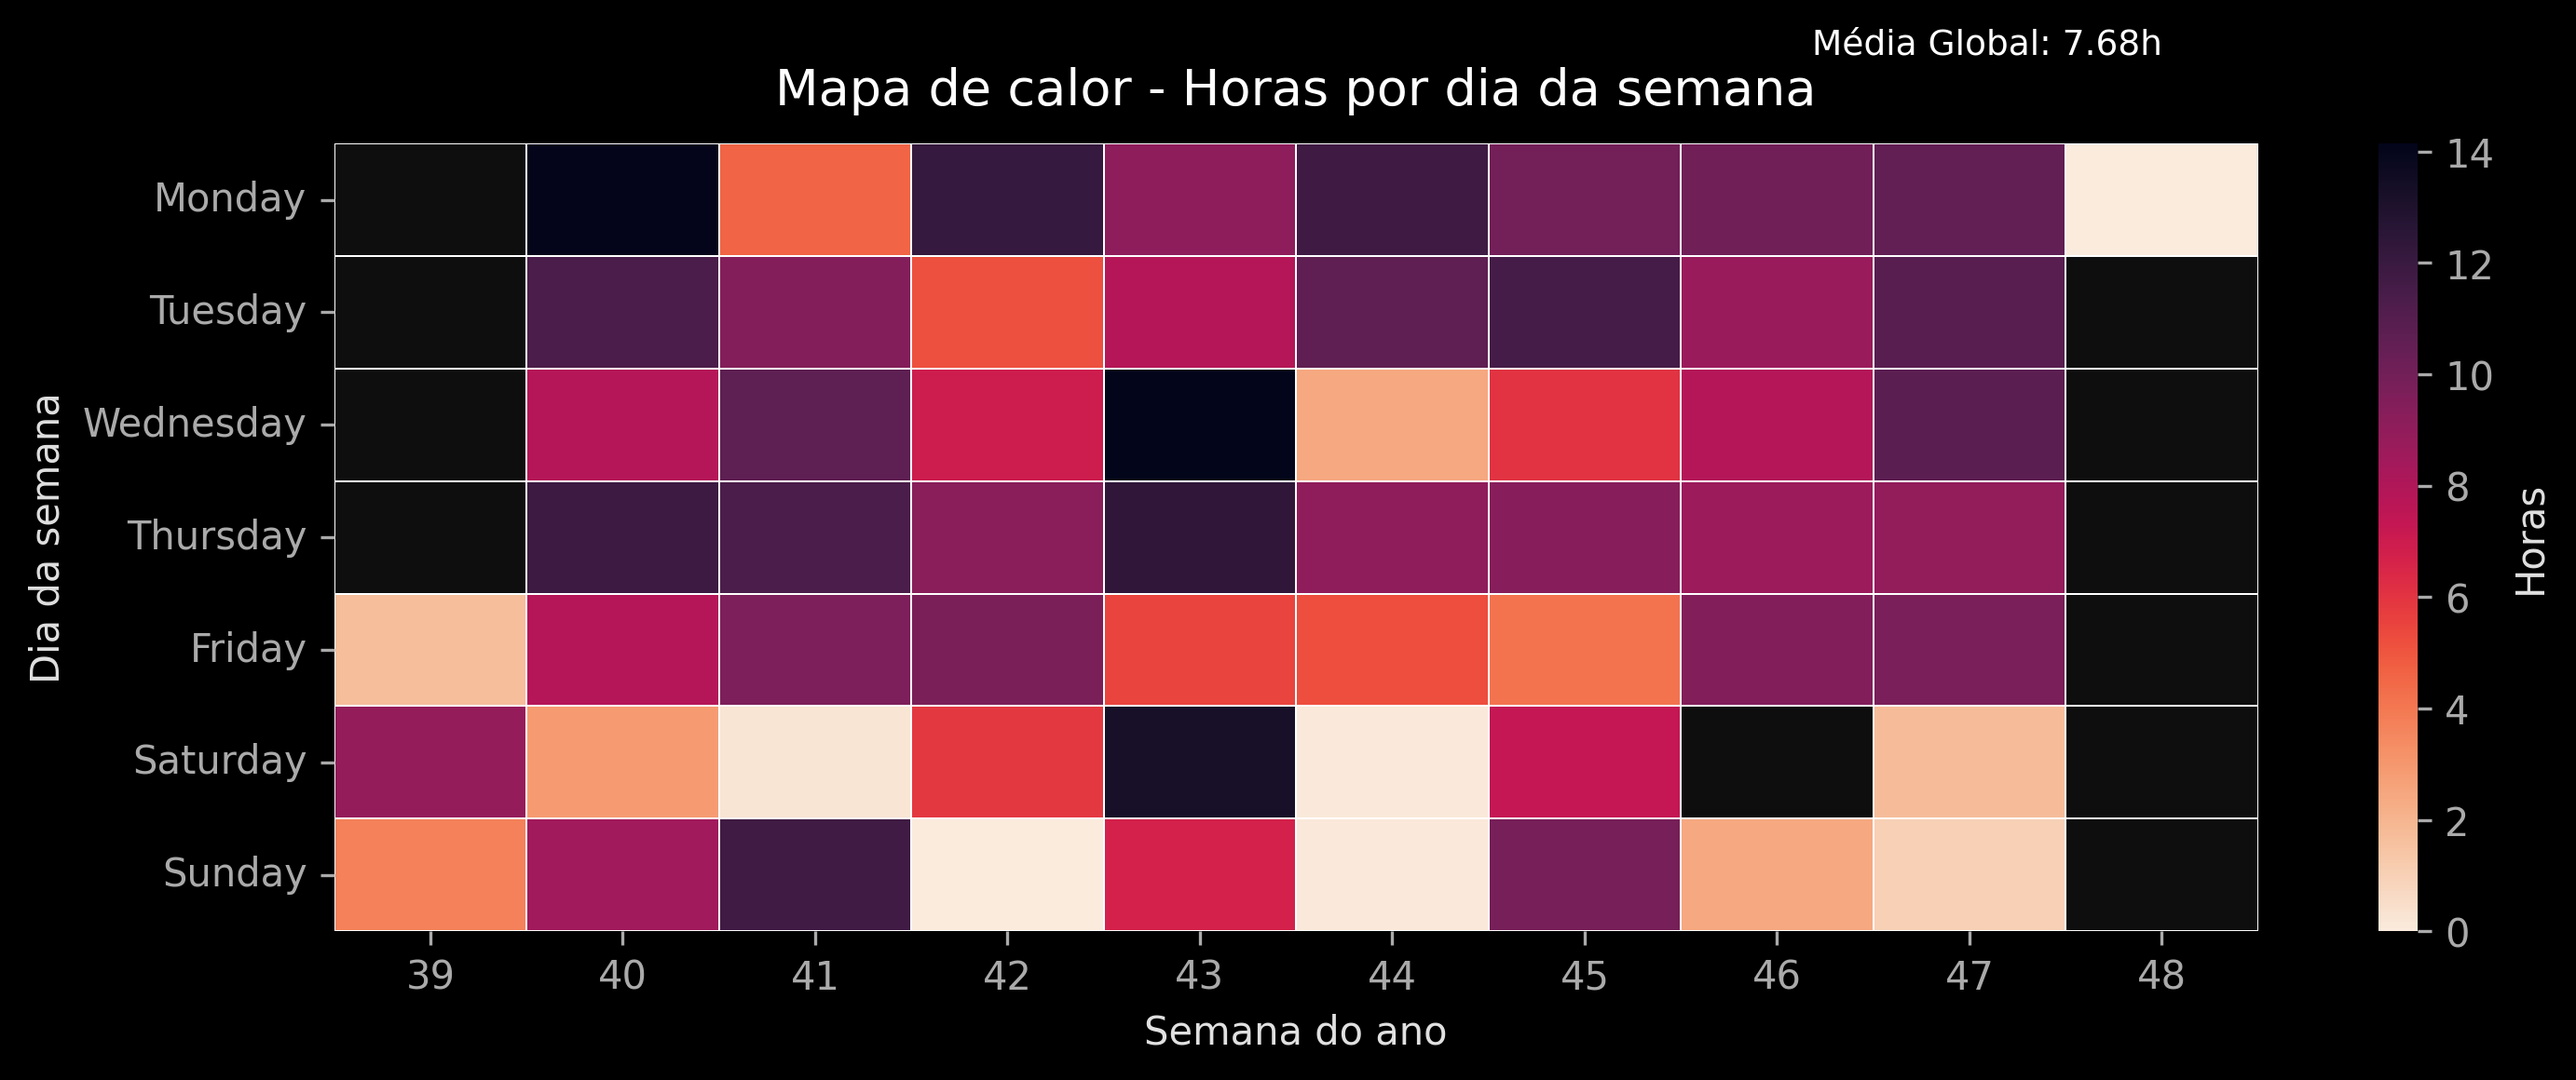
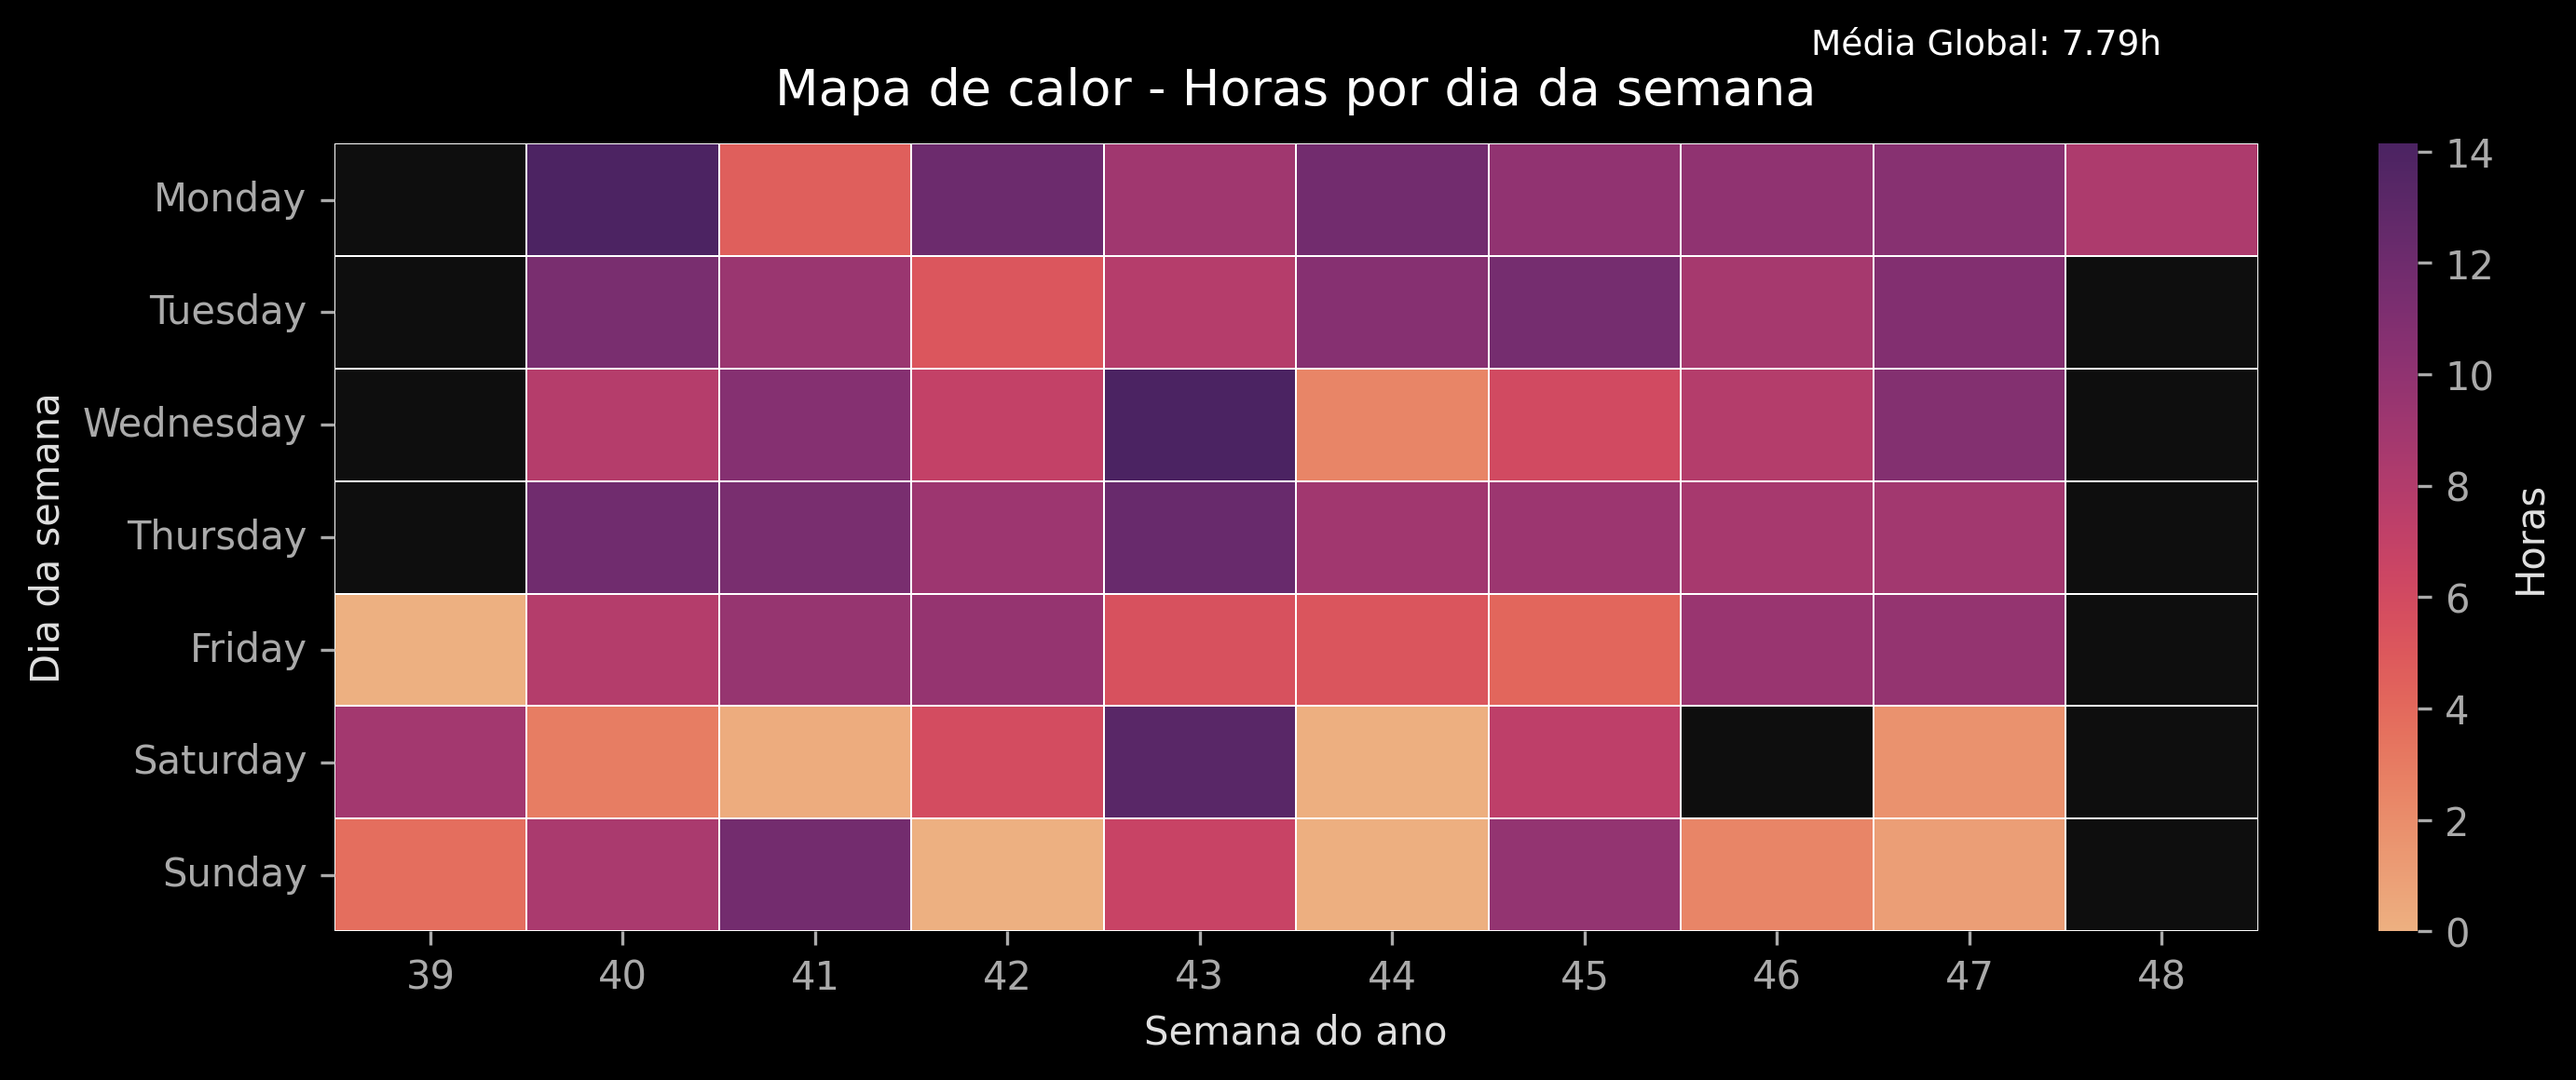
Auto tracker update

diff --git a/scripts/data_vis.py b/scripts/data_vis.py
@@ -36,7 +36,7 @@ def create_graphs():
     pivot = df.pivot_table(index="dia_semana", columns="semana", values="horas_totais", aggfunc="mean", observed=False)
 
     plt.figure(figsize=(10, 4), dpi=200)
-    sns.heatmap(pivot, cmap="rocket_r", linewidths=0.4, cbar_kws={'label': 'Horas'})
+    sns.heatmap(pivot, cmap="flare", linewidths=0.4, cbar_kws={'label': 'Horas'}, annot=False)
     plt.title("Mapa de calor - Horas por dia da semana", fontsize=13, color="white", pad=10)
     plt.xlabel("Semana do ano")
     plt.ylabel("Dia da semana")
